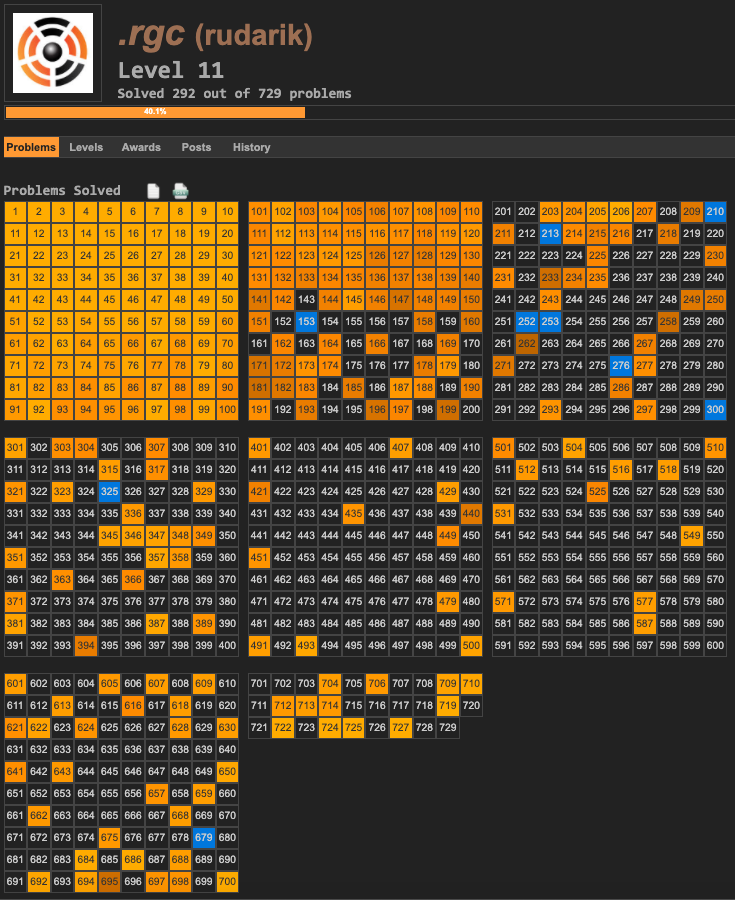
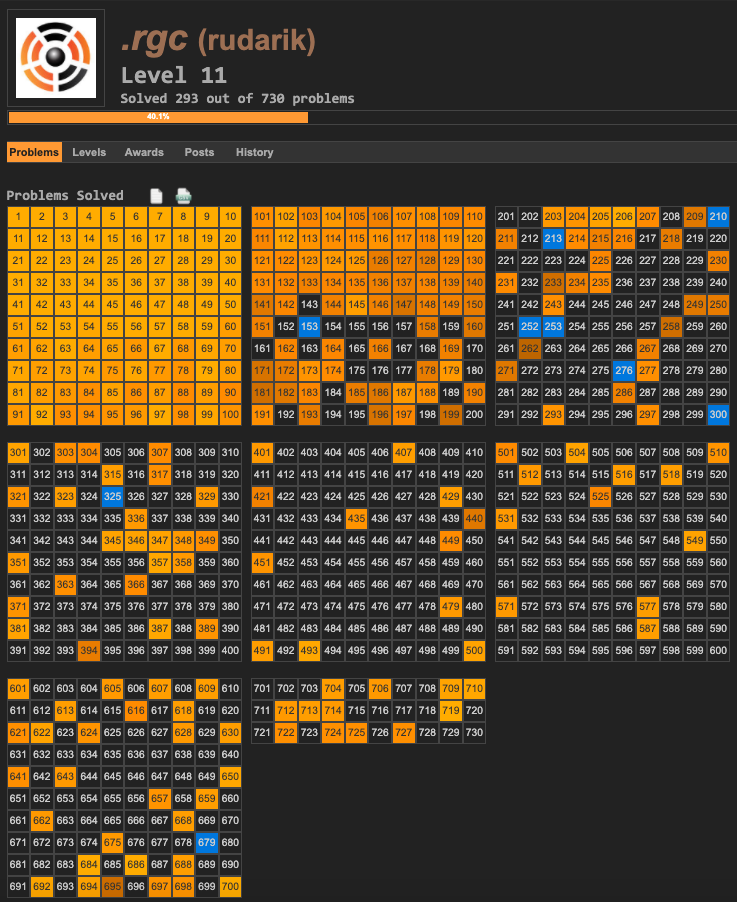
solved 186

diff --git a/README.md b/README.md
@@ -51,6 +51,9 @@ Problem 83: "Path sum, four ways"
 * [Diophantine Equation](https://en.wikipedia.org/wiki/Diophantine_equation)
 Problem 100: "Arranged probability"
 
+* [Disjoint-set Data Structure](https://en.wikipedia.org/wiki/Disjoint-set_data_structure)
+Problem 186: "Connectedness of a network"
+
 * [Divisibility Rule](https://en.wikipedia.org/wiki/Divisibility_rule)
 Problem 491: "Double pandigital number divisible by 11"
 
